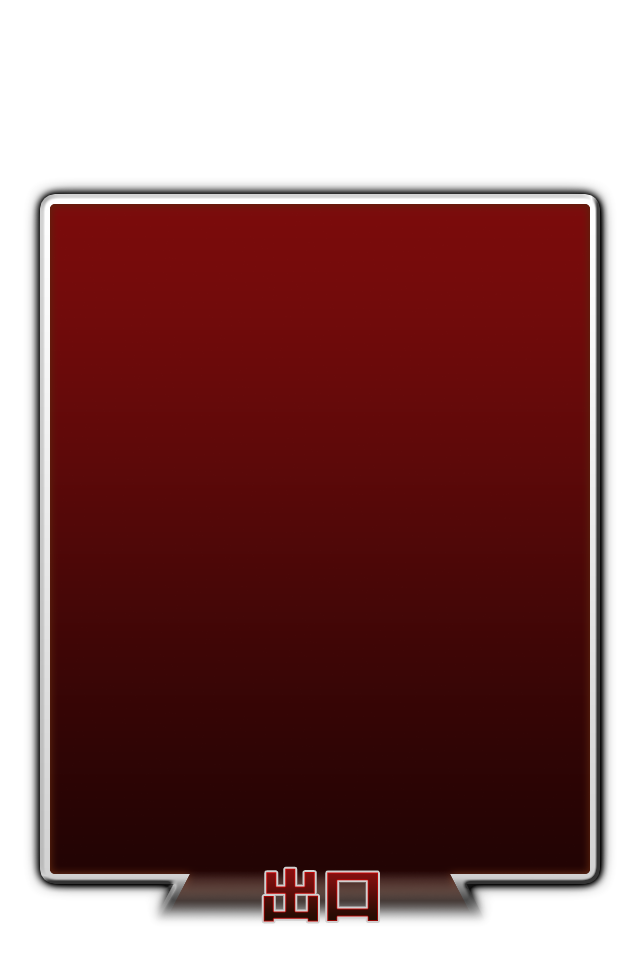
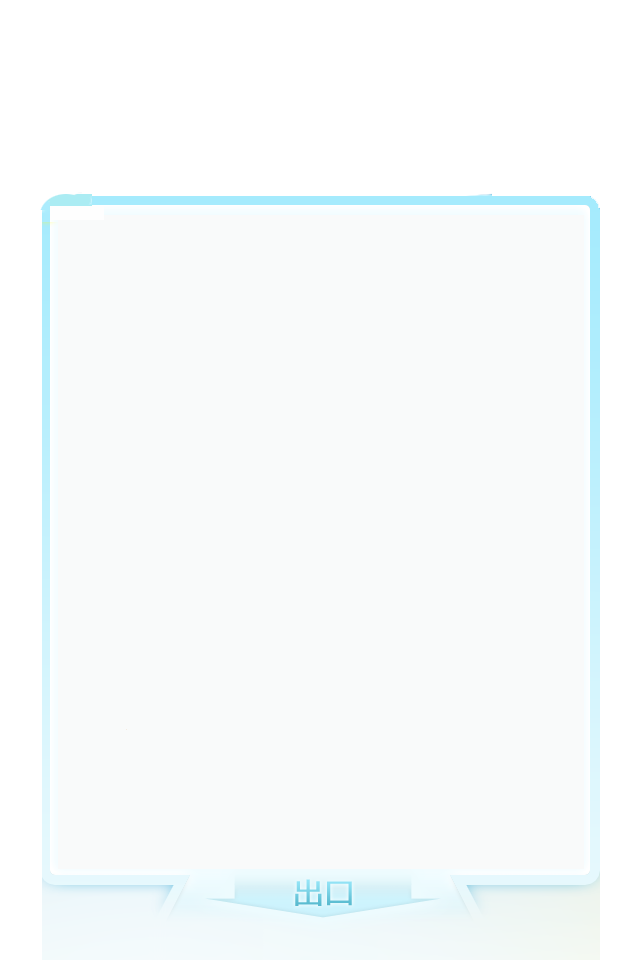
修改了大部分图片

diff --git a/MCKlotski/MCKlotski/Classes/Controller/MCRootViewController.m b/MCKlotski/MCKlotski/Classes/Controller/MCRootViewController.m
@@ -54,11 +54,28 @@
 #pragma mark - Private Method
 - (void)createSubViews
 {
+    // 添加Logo
+    UIImage *logoImage = [UIImage imageNamed:@"logo.png"];
+    UIImageView *logoImageView = 
+        [[UIImageView alloc] initWithFrame:CGRectMake(0, 50, logoImage.size.width, logoImage.size.height)];
+    logoImageView.image = logoImage;
+    [self.view addSubview:logoImageView];
+    [logoImageView release];
+    
+    // 添加tjutlogo
+    logoImage = [UIImage imageNamed:@"tjutlogo.png"];
+    CGRect tjutLogoRect = CGRectMake(5, 25, logoImage.size.width, logoImage.size.height);
+    UIImageView *tjutLogoImageView = [[UIImageView alloc] initWithFrame:tjutLogoRect];
+    tjutLogoImageView.image = logoImage;
+    [self.view addSubview:tjutLogoImageView];
+    [tjutLogoImageView release];
+    
+    
     UIImage *image = [UIImage imageNamed:@"menu_normal.png"];
     float width = image.size.width;
     float height = image.size.height;
     float left = ([GGUtil screenSize].width - width) * 0.5;
-    float top = 50;
+    float top = 220;
     float offset = 5;
     CGRect rect = CGRectMake(left, top, width, height);
     NSArray *imageNames = [NSArray arrayWithObjects:@"play_red.png", @"play_white.png", nil];
@@ -67,7 +84,7 @@
     
     // 添加选关按钮
     rect = CGRectMake(left , top + offset + height, width, height);
-    imageNames = [NSArray arrayWithObjects:@"play_red.png", @"play_white.png", nil];
+    imageNames = [NSArray arrayWithObjects:@"select_red.png", @"select_white.png", nil];
     [self.view addSubview:[self addMenuWithRect:rect andImageNmaes:imageNames action:@selector(levelsAction:)]];
 }
 

diff --git a/MCKlotski/MCKlotski/Classes/Model/MCBlock.m b/MCKlotski/MCKlotski/Classes/Model/MCBlock.m
@@ -60,18 +60,29 @@
     switch (self.blockType) {
         case kBlockTypeSmall:
             image = [UIImage imageNamed:[NSString stringWithFormat:@"block4%d.png", index]];
+            if (!image) {
+                image = [UIImage imageNamed:@"block4.png"];
+            }
             break;
         case kBlockTypeNormalH:
             image = [UIImage imageNamed:[NSString stringWithFormat:@"block1%d.png",index]];
+            if (!image) {
+                image = [UIImage imageNamed:@"block1.png"];
+            }
             CGImageRef imageRef = [image CGImage];
             image = [UIImage imageWithCGImage:imageRef scale:1.0 orientation:UIImageOrientationLeft];
             break;
         case kBlockTypeNormalV:
             image = [UIImage imageNamed:[NSString stringWithFormat:@"block1%d.png", index]];
+            if (!image) {
+                image = [UIImage imageNamed:@"block1.png"];
+            }
             break;
         case kBlockTypeLager:
-           image = [UIImage imageNamed:@"Default.png"];
-            //image = [UIImage imageNamed:[NSString stringWithFormat:@"block2%d.png",index]];
+            image = [UIImage imageNamed:[NSString stringWithFormat:@"block2%d.png",index]];
+            if (!image) {
+                image = [UIImage imageNamed:@"block2.png"];
+            }
             break;
         default:
             NSAssert(false, @"block's type is invalid!!!");

diff --git a/MCKlotski/MCKlotski/Classes/Controller/MCGateViewController.m b/MCKlotski/MCKlotski/Classes/Controller/MCGateViewController.m
@@ -333,16 +333,18 @@ typedef enum AlertTagEnum{
         return;
     }
     
-    if (isPassAllLevel) {
-        [self showPassAllLevelAlertView];
-        [[GGSoundManager sharedGGSoundManager] playEffect:@"lifeadd.mp3"];
-    }else if(isNewRMin) {
-        [self showNewBestMoveAlertView];
-        [[GGSoundManager sharedGGSoundManager] playEffect:@"solved.wav"];
-    }else {
-        [self showPassLevelAlertView];
-        [[GGSoundManager sharedGGSoundManager] playEffect:@"lifeadd.mp3"];
-    }
+//    if (isPassAllLevel) {
+//        [self showPassAllLevelAlertView];
+//        [[GGSoundManager sharedGGSoundManager] playEffect:@"lifeadd.mp3"];
+//    }else{
+        if(isNewRMin) {
+            [self showNewBestMoveAlertView];
+            [[GGSoundManager sharedGGSoundManager] playEffect:@"solved.wav"];
+        }else {
+            [self showPassLevelAlertView];
+            [[GGSoundManager sharedGGSoundManager] playEffect:@"lifeadd.mp3"];
+        }
+//    }
 }
 
 - (void)refreshGameGate

diff --git a/MCKlotski/MCKlotski/Classes/View/MCBlockView.m b/MCKlotski/MCKlotski/Classes/View/MCBlockView.m
@@ -91,9 +91,9 @@
         // 初始化块精灵背景
         UIImageView *bgImageView= [[UIImageView alloc] initWithFrame:
                                    CGRectMake(0, 0, self.frame.size.width, self.frame.size.height)];
-        bgImageView.backgroundColor = [UIColor blueColor];
+        bgImageView.backgroundColor = [UIColor clearColor];
         
-        //bgImageView.image = [self.block blockImage];
+        bgImageView.image = [self.block blockImage];
         NSLog(@"%@", bgImageView.image);
         [self addSubview:bgImageView];
         [bgImageView release];
